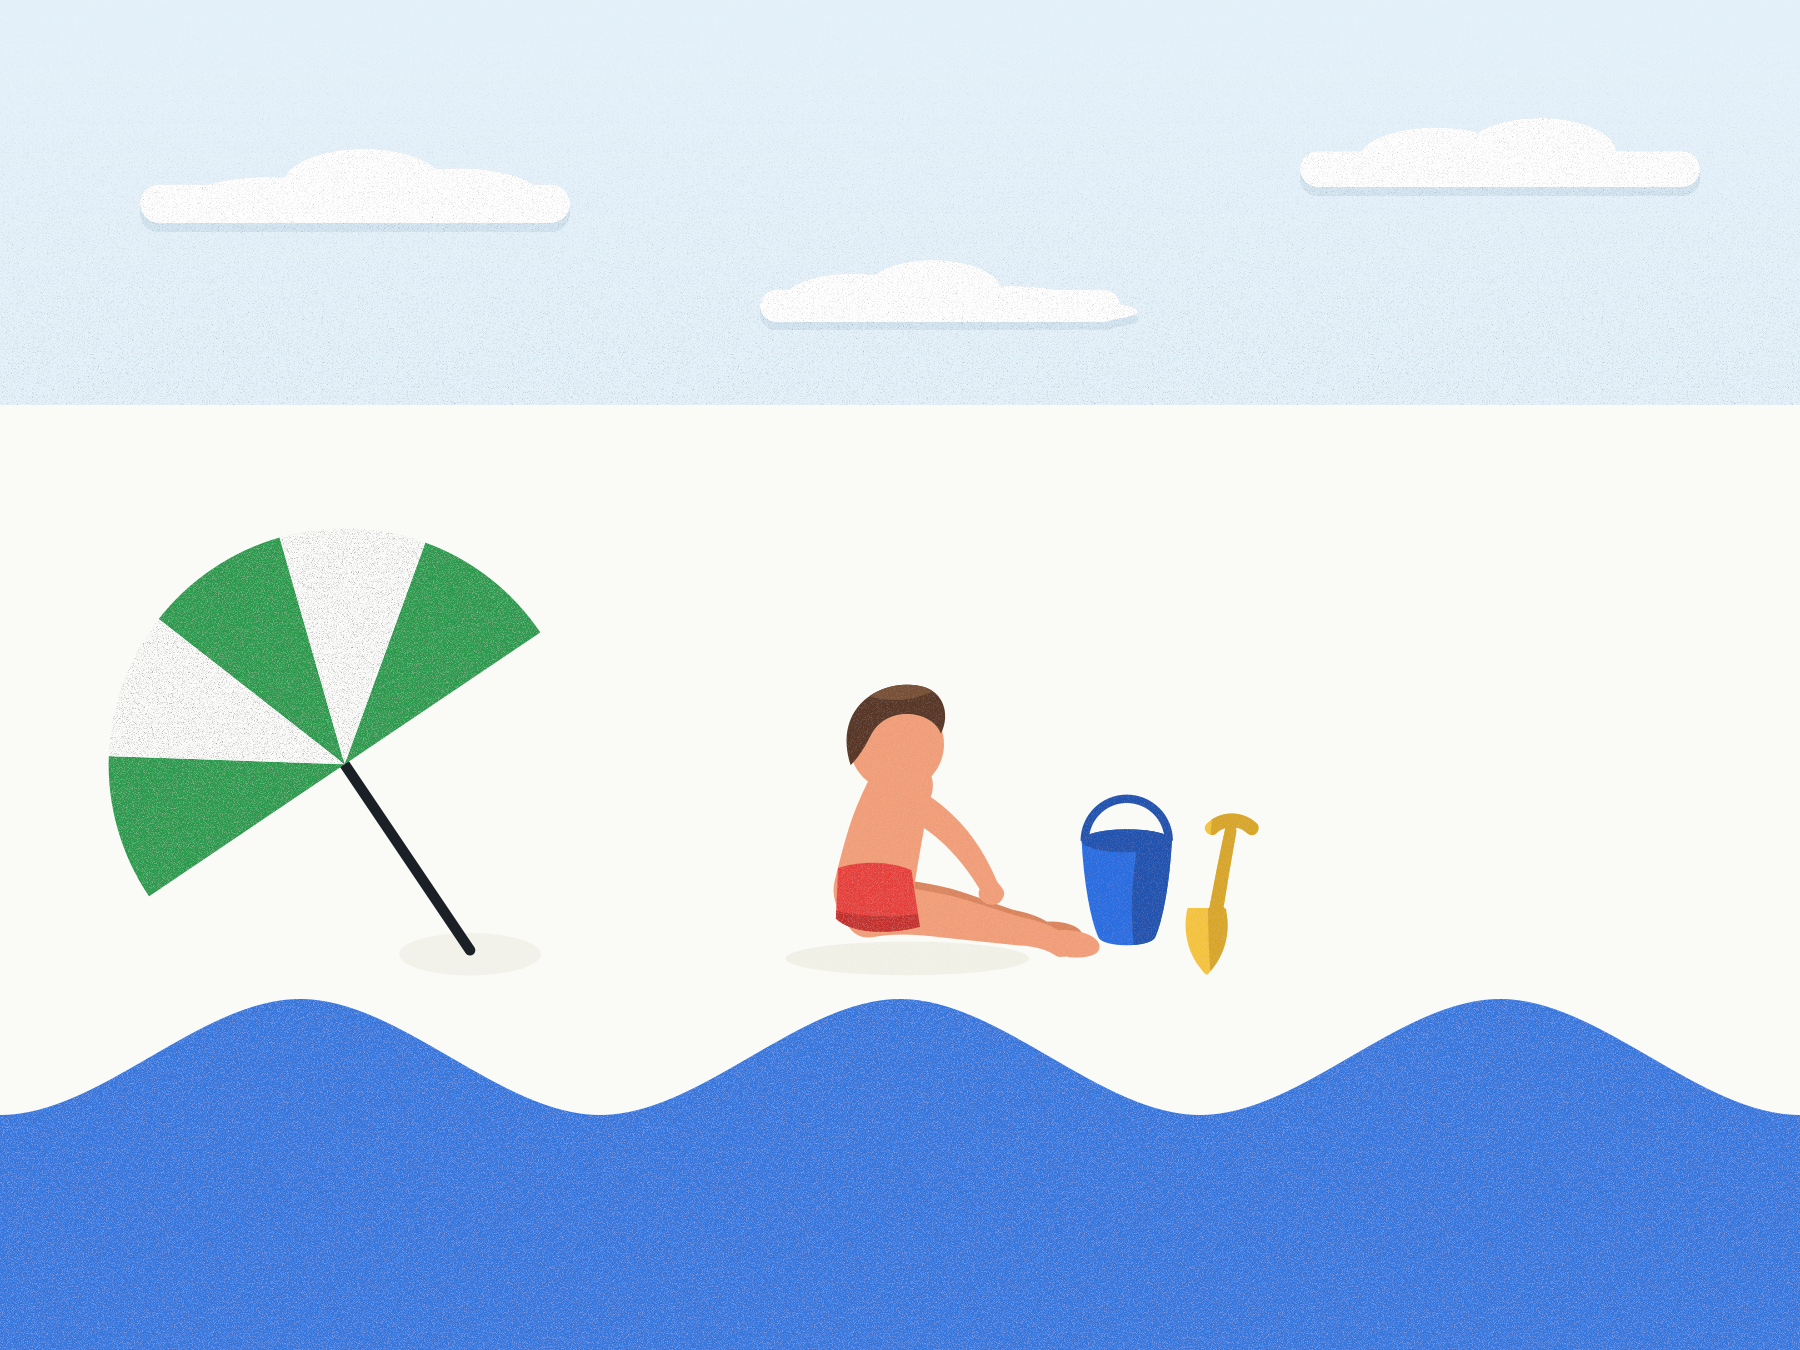
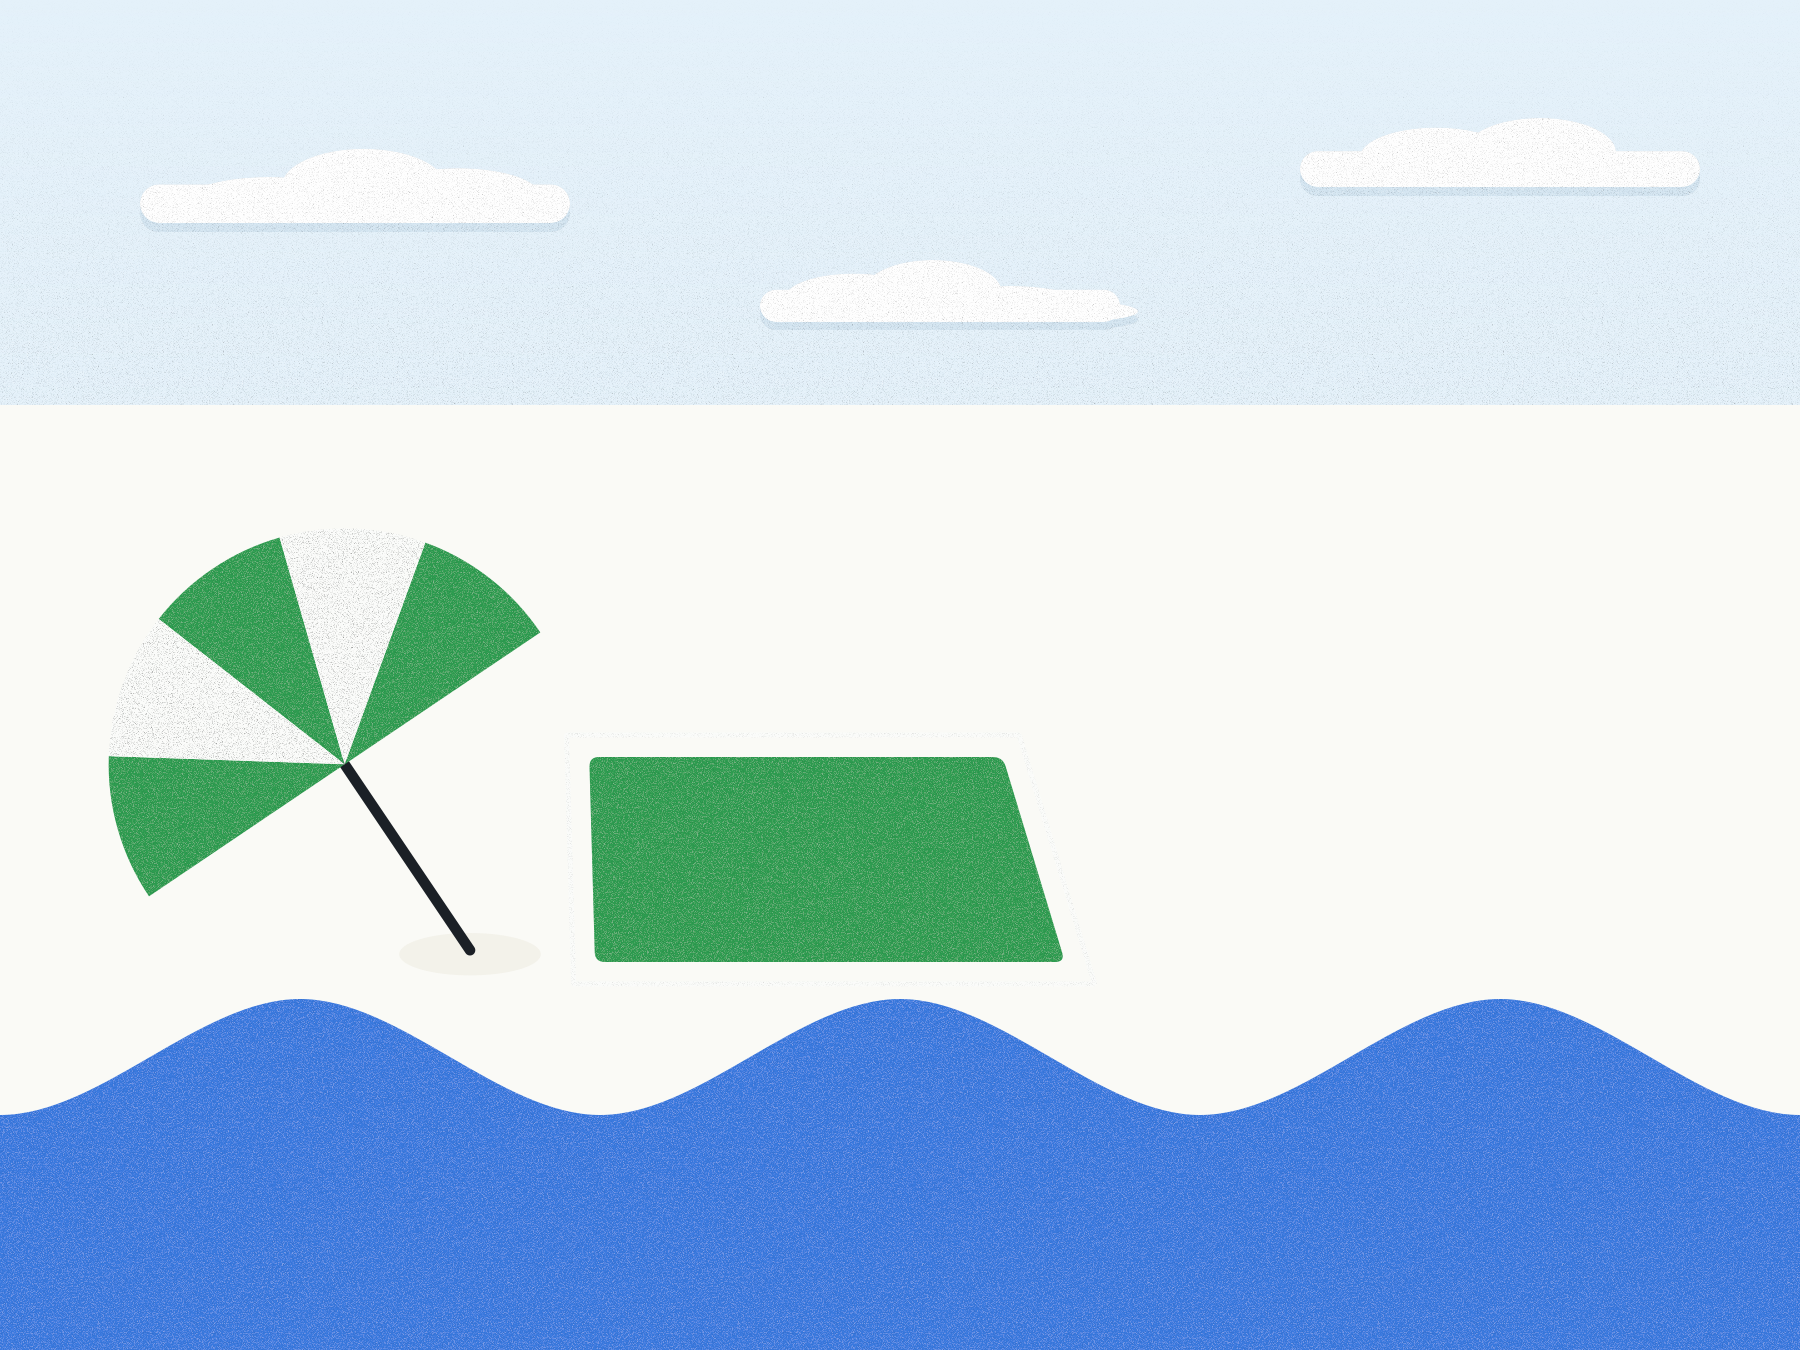
Serviette sur le sable, enfant retiré
La serviette est un quadrilatère dont le bord loin fait 0,88 fois le bord
près : c'est ce seul écart qui la couche au sol, un rectangle à angles
droits se lisant comme une plaque dressée même posé au bon endroit. Un biais
latéral la sort de la frontalité.

Son liséré clair est un vrai décalage, pas une réduction vers le centre :
une homothétie rapproche d'autant plus les bords qu'ils sont loin du centre,
donc la marge serait plus large en haut qu'en bas — visible sur une forme en
perspective. eroder() décale chaque côté de la même distance le long de sa
normale puis recoupe les côtés voisins deux à deux ; marge vérifiée à
22,00 px sur les quatre côtés. C'est ce que ferait Chemin > Éroder
d'Inkscape, qui n'existe pas en ligne de commande.

Au premier essai la serviette était posée juste sous la toile : deux verts
en contact ne font plus deux objets mais une seule tache. Elle est écartée,
comme sur le modèle où c'est le sable entre les deux qui les sépare.

Elle est dessinée avant les parasols, pour que le mât passe par-dessus.

L'enfant passe derrière un interrupteur AVEC_ENFANT, à False.

Claude-Session: https://claude.ai/code/session_015un2t2xRvThoKm9jAu6CXK

Changed region(s): [[0.3111, 0.4978, 0.7156, 0.7156]]

diff --git a/illustration/serviette.py b/illustration/serviette.py
@@ -1,0 +1,122 @@
+# -*- coding: utf-8 -*-
+u"""
+La serviette posee sur le sable.
+
+CE QUE MONTRE LE MODELE
+  Un quadrilatere, pas un rectangle. Son bord LOIN est plus court que son
+  bord PRES, et c'est tout ce qui la fait coucher au sol : un rectangle a
+  angles droits se lit comme une plaque dressee, meme pose au bon endroit.
+  L'ecart est faible - de l'ordre du dixieme - mais il n'est pas nul, et
+  c'est cette petite chose qui decide.
+
+  A l'interieur, un LISERE CLAIR, a distance constante du bord. Il double la
+  silhouette et lui donne son caractere de textile ; sans lui on dessine un
+  tapis de gym.
+
+LE LISERE EST UN VRAI DECALAGE, PAS UNE HOMOTHETIE
+  On serait tente de reduire le quadrilatere vers son centre. Ce serait faux :
+  une homothetie rapproche d'autant plus les bords qu'ils sont loin du
+  centre, donc la marge serait plus large en haut qu'en bas, et l'oeil le
+  voit tout de suite sur une forme en perspective.
+
+  On decale donc CHAQUE COTE de la meme distance le long de sa normale, puis
+  on recoupe les cotes voisins deux a deux. La marge est alors constante par
+  construction. C'est ce que ferait "Chemin > Eroder" dans Inkscape - qui
+  n'existe pas en ligne de commande, on l'a verifie.
+"""
+
+VERT = "#2F9E52"
+LISERE = "#FBFCFA"
+
+
+def _intersection(p1, d1, p2, d2):
+    u"""Le point de rencontre de deux droites, chacune par point + direction."""
+    det = d1[0] * (-d2[1]) - d1[1] * (-d2[0])
+    if abs(det) < 1e-9:                 # coincidentes ou paralleles
+        return p2
+    dx, dy = p2[0] - p1[0], p2[1] - p1[1]
+    t = (dx * (-d2[1]) - dy * (-d2[0])) / det
+    return (p1[0] + d1[0] * t, p1[1] + d1[1] * t)
+
+
+def eroder(points, marge):
+    u"""
+    Le meme polygone, chaque cote rentre de `marge` vers l'interieur.
+
+    Les points sont donnes dans le sens horaire (y vers le bas), ce qui met
+    l'interieur a GAUCHE de chaque cote ; la normale interieure d'un vecteur
+    (dx, dy) est donc (dy, -dx) normalisee.
+    """
+    n = len(points)
+    cotes = []
+    for i in range(n):
+        a, b = points[i], points[(i + 1) % n]
+        dx, dy = b[0] - a[0], b[1] - a[1]
+        L = (dx * dx + dy * dy) ** 0.5 or 1.0
+        nx, ny = dy / L, -dx / L
+        cotes.append(((a[0] + nx * marge, a[1] + ny * marge), (dx, dy)))
+
+    return [_intersection(cotes[i - 1][0], cotes[i - 1][1],
+                          cotes[i][0], cotes[i][1]) for i in range(n)]
+
+
+def quadrilatere(cx, y_pres, largeur, profondeur, fuite=0.88, biais=0.0):
+    u"""
+    fuite : le bord loin fait `fuite` fois la largeur du bord pres. C'est lui
+            qui couche la serviette au sol.
+    biais : decalage lateral du bord loin, pour que la serviette ne soit pas
+            de face - une serviette parfaitement frontale a l'air posee par
+            un geometre.
+    """
+    y_loin = y_pres - profondeur
+    l2, f2 = largeur / 2.0, largeur * fuite / 2.0
+    return [(cx - f2 + biais, y_loin), (cx + f2 + biais, y_loin),
+            (cx + l2, y_pres), (cx - l2, y_pres)]
+
+
+def _chemin(points, r=0.0):
+    u"""Le contour, coins legerement arrondis si r > 0."""
+    if r <= 0:
+        return ("M%.1f %.1f " % points[0]
+                + " ".join("L%.1f %.1f" % p for p in points[1:]) + " Z")
+    n, d = len(points), ""
+    for i in range(n):
+        a, b, c = points[i - 1], points[i], points[(i + 1) % n]
+        def vers(p, q, t):
+            dx, dy = q[0] - p[0], q[1] - p[1]
+            L = (dx * dx + dy * dy) ** 0.5 or 1.0
+            k = min(t, L / 2.0) / L
+            return (p[0] + dx * k, p[1] + dy * k)
+        e, s = vers(b, a, r), vers(b, c, r)
+        d += ("M%.1f %.1f " % e) if i == 0 else (" L%.1f %.1f" % e)
+        d += " Q%.1f %.1f %.1f %.1f" % (b + s)
+    return d + " Z"
+
+
+def dessiner(cx, y_pres, largeur, profondeur, fuite=0.88, biais=0.0,
+             marge=22.0, rayon=10.0, indent=4, filtre="grainToileVive",
+             couleur=VERT, lisere=LISERE, epaisseur=5.0):
+    p = quadrilatere(cx, y_pres, largeur, profondeur, fuite, biais)
+    e = " " * indent
+    return "\n".join([
+        u'%s<g inkscape:label="Serviette" filter="url(#%s)">' % (e, filtre),
+        u'%s  <path d="%s" fill="%s"/>' % (e, _chemin(p, rayon), couleur),
+        u'%s  <path d="%s" fill="none" stroke="%s" stroke-width="%.1f"/>'
+        % (e, _chemin(eroder(p, marge), max(0.0, rayon - marge * 0.4)),
+           lisere, epaisseur),
+        u'%s</g>' % e])
+
+
+if __name__ == "__main__":
+    p = quadrilatere(470, 950, 460, 210, 0.88, -30)
+    q = eroder(p, 22)
+    print(u"bord pres %.0f px, bord loin %.0f px"
+          % (p[2][0] - p[3][0], p[1][0] - p[0][0]))
+    print(u"marge mesuree sur les quatre cotes :")
+    for i in range(4):
+        a, b = p[i], p[(i + 1) % 4]
+        m = q[i]
+        dx, dy = b[0] - a[0], b[1] - a[1]
+        L = (dx * dx + dy * dy) ** 0.5
+        dist = abs((m[0] - a[0]) * dy - (m[1] - a[1]) * dx) / L
+        print(u"   cote %d : %.2f px" % (i, dist))

diff --git a/illustration/construire.py b/illustration/construire.py
@@ -12,6 +12,7 @@ import grillage
 import parasols
 import nuages
 import mer
+import serviette
 import enfant
 
 # LE FORMAT. 1800 x 1350, soit du 4:3. La hauteur ne change pas : c'est elle
@@ -33,6 +34,10 @@ AVEC_GRILLAGE = "sans" not in sys.argv
 # Remis a True, tout revient - le buisson, son ombrage, et le bord de sable
 # ondule qui le suivait.
 AVEC_VERDURE = False
+
+# L'ENFANT est retire : la scene se construit d'abord comme un lieu, les
+# personnages viendront apres. Remis a True, il revient avec ses jouets.
+AVEC_ENFANT = False
 grillage.LARGEUR = LARGEUR
 
 # LE DECOUPAGE. Ciel et sable ont exactement la meme hauteur ; la verdure
@@ -168,8 +173,24 @@ coupes_abris, abris, nb_abris = parasols.engendrer(indent=4)
 #
 #   Mets-y ce que tu veux : un export d'Inkscape, un Humaaans telecharge, une
 #   figure sortie de importer_figure.py. Il est insere sans etre relu.
+# LA SERVIETTE, posee sous le parasol. Son bord loin est plus court que son
+# bord pres - c'est ce qui la couche au sol - et son lisere clair est un vrai
+# decalage a marge constante, pas une reduction vers le centre. Voir
+# serviette.py.
+# ELLE NE DOIT PAS TOUCHER LE PARASOL. Au premier essai elle etait posee
+# juste sous la toile : deux verts en contact ne font plus deux objets, ils
+# font une seule tache. Sur le modele le parasol est en haut a gauche et la
+# serviette nettement en dessous, sans contact - c'est le sable entre les
+# deux qui les separe, pas une difference de couleur.
+SERVIETTE = serviette.dessiner(cx=830, y_pres=962, largeur=470,
+                               profondeur=205, fuite=0.88, biais=-34,
+                               indent=2)
+
 import os
-if os.path.exists("personnage.svg"):
+if not AVEC_ENFANT:
+    GAMIN = "  <!-- enfant retire -->"
+    SOURCE_PERSONNAGE = "aucun"
+elif os.path.exists("personnage.svg"):
     GAMIN = ('  <!-- personnage.svg, depose tel quel - le script ne le '
              'reecrit jamais -->\n'
              + open("personnage.svg", encoding="utf-8").read())
@@ -332,6 +353,17 @@ SVG = u"""<svg xmlns="http://www.w3.org/2000/svg"
 </g>
 
 
+<!-- ################## LA SERVIETTE ################## -->
+<!-- Posee sur le sable et SOUS le parasol : le mat doit passer par-dessus,
+     sinon il a l'air plante devant la serviette au lieu d'a travers. -->
+<g inkscape:groupmode="layer" inkscape:label="COUCHE 4 - La serviette"
+   id="coucheServiette">
+
+{SERVIETTE}
+
+</g>
+
+
 <!-- ################## LES ABRIS DE PLAGE ################## -->
 <!-- Des coupoles a FUSEAUX, pas des eventails. Les coutures sont reparties
      en azimut, pas en largeur apparente : une couture a l'azimut phi tombe
@@ -383,7 +415,7 @@ SVG = u"""<svg xmlns="http://www.w3.org/2000/svg"
            D1=DEC1, D2=DEC2, D3=DEC3,
            BORD=BORD_SABLE, COUPES=coupes, FEUILLAGE=feuillage,
            FENCE=fence, ABRIS=abris, COUPES_ABRIS=coupes_abris,
-           GAMIN=GAMIN,
+           GAMIN=GAMIN, SERVIETTE=SERVIETTE,
            HP0="%.0f" % (grillage.projeter(0,0)[1]-grillage.projeter(0,1)[1]),
            HP15="%.0f" % (grillage.projeter(15,0)[1]-grillage.projeter(15,1)[1]),
            EC0="%.0f" % (grillage.projeter(1,0)[0]-grillage.projeter(0,0)[0]),

diff --git a/illustration/METHODE.md b/illustration/METHODE.md
@@ -64,6 +64,7 @@ une fois l'image sous les yeux.
 | **Parasol, nombre** | **un seul**, planté dans un coin. Deux de part et d'autre du sujet font une composition en balance que le modèle ne fait pas. |
 | **Mer** | crête à y=562 sur 760, soit **26 % de la hauteur**. Ligne moyenne à **0,78 × H**. |
 | **Vague** | **3 ondulations** dans le cadre, amplitude ± 58 sur 1800, soit une raideur de 0,19. |
+| **Serviette** | un **quadrilatère**, bord loin ~0,88 × le bord près. Liséré clair à marge constante à l'intérieur. |
 | **Nuages** | rapport **5,8 : 1** — six fois plus larges que hauts. Mesuré sur les trois : 170×30, 145×25, 140×24. Bas rigoureusement droit. |
 
 Réglage retenu : `grainToileVerte` **0.38**, `grainToileBlanche` **1.00**,
@@ -114,6 +115,18 @@ phase de la vague est calculée pour poser un creux sur chaque bord : on voit
 alors exactement `CRETES` ondulations entières. Avec une phase libre, un bout
 de crête dépassait à droite et on en comptait quatre.
 
+**Un liséré intérieur n'est pas une homothétie.** Réduire une forme vers son
+centre rapproche d'autant plus les bords qu'ils sont loin du centre : la marge
+serait plus large en haut qu'en bas, et sur une forme en perspective ça se
+voit. `serviette.eroder()` décale chaque côté de la même distance le long de
+sa normale puis recoupe les côtés voisins — marge constante, vérifiée à
+22,00 px sur les quatre côtés.
+
+**Deux aplats de même couleur qui se touchent ne font plus deux objets.** La
+serviette posée sous le parasol se fondait avec lui. Ce n'est pas une
+question de teinte mais de contact : sur le modèle c'est le sable entre les
+deux qui les sépare.
+
 **Une forme posée sur une ligne doit y être tangente.** Les bosses des
 nuages débordaient sous la ligne de pose et le dessous devenait bosselé :
 demi-hauteur égale à la moitié de l'élévation, centre remonté d'autant.
@@ -146,10 +159,11 @@ Les décalages de contour restent donc à la charge de `trace.py`.
 | `perspective.py` | l'interrupteur `FRONTAL`. Vue de face ou point de fuite. |
 | `verdure.py` | le buisson, retiré de la version validée (`AVEC_VERDURE`) |
 | `mer.py` | la mer et sa vague, au relevé du modèle |
+| `serviette.py` | la serviette : quadrilatère fuyant + liséré à marge constante |
 | `grillage.py` | la clôture (retirée de la version validée) |
 | `nuages.py` | les nuages, au rapport du modèle |
 | `parasols.py` | `un_eventail()` — la forme du modèle. `un_parasol()` — l'ancienne coupole à fuseaux, conservée. |
-| `enfant.py` | l'enfant et ses jouets |
+| `enfant.py` | l'enfant et ses jouets, retiré de la version validée (`AVEC_ENFANT`) |
 | `trace.py` | l'épaisseur variable, l'équivalent calculé du *Power Stroke* |
 | `booleen.py` | union / différence / intersection / simplification, calculées par Inkscape |
 | `importer_figure.py` | greffer un personnage téléchargé et l'accorder à la palette |
